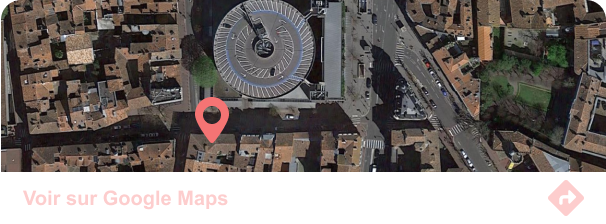
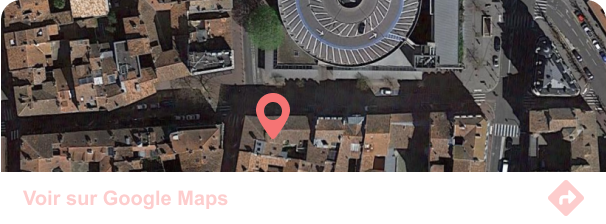
editing footer

diff --git a/pages/agence.html b/pages/agence.html
@@ -105,13 +105,22 @@
             </div>
         
             <div class="centre1">
-              <iframe src="https://www.google.com/maps/embed?pb=!1m18!1m12!1m3!1d2889.448076696676!2d1.441914277059541!3d43.59721127110495!2m3!1f0!2f0!3f0!3m2!1i1024!2i768!4f13.1!3m3!1m2!1s0x12aebc8261d09cf5%3A0x867c59e00fbbbf4!2s42%20Pl.%20des%20Carmes%2C%2031000%20Toulouse!5e0!3m2!1sfr!2sfr!4v1702299517850!5m2!1sfr!2sfr" style="border:0;" allowfullscreen="" loading="lazy" referrerpolicy="no-referrer-when-downgrade"></iframe>
-    
-                <div id="adresse">
-                    <p>EventSphere - Communication 360 dans le domaine de l'événementiel (Projet Etudiant)</p>
-                    <p>42 Place des Carmes, 31000 Toulouse, France </p>
-                </div>
-            </div>
+                <!--<iframe src="https://www.google.com/maps/embed?pb=!1m18!1m12!1m3!1d2889.448076696676!2d1.441914277059541!3d43.59721127110495!2m3!1f0!2f0!3f0!3m2!1i1024!2i768!4f13.1!3m3!1m2!1s0x12aebc8261d09cf5%3A0x867c59e00fbbbf4!2s42%20Pl.%20des%20Carmes%2C%2031000%20Toulouse!5e0!3m2!1sfr!2sfr!4v1702299517850!5m2!1sfr!2sfr" style="border:0;" allowfullscreen="" loading="lazy" referrerpolicy="no-referrer-when-downgrade"></iframe>
+      
+                  <div id="adresse">
+                      <p>EventSphere - Communication 360 dans le domaine de l'événementiel (Projet Etudiant)</p>
+                      <p>42 Place des Carmes, 31000 Toulouse, France </p>
+                  </div>-->
+                  <a target="_blank" href="https://www.google.fr/maps/place/42+Pl.+des+Carmes,+31000+Toulouse/@43.5972152,1.4419143,17z/data=!3m1!4b1!4m6!3m5!1s0x12aebc8261d09cf5:0x867c59e00fbbbf4!8m2!3d43.5972113!4d1.4444892!16s%2Fg%2F11cs6_61m7?entry=ttu"><img src="../assets/img/maps.png" alt="Maps"></a>
+                  <p>
+                      <p>EventSphere - Communication 360 
+                          dans le domaine de l'événementiel 
+                          (Projet Etudiant)
+                      <br>
+                      42 Place des Carmes, 31000 Toulouse, France
+                      </p>
+                  </p>
+              </div>
         
             <div class="droite1">
                 <div class="social" id="instafooter">

diff --git a/pages/contact.html b/pages/contact.html
@@ -105,13 +105,22 @@
             </div>
         
             <div class="centre1">
-              <iframe src="https://www.google.com/maps/embed?pb=!1m18!1m12!1m3!1d2889.448076696676!2d1.441914277059541!3d43.59721127110495!2m3!1f0!2f0!3f0!3m2!1i1024!2i768!4f13.1!3m3!1m2!1s0x12aebc8261d09cf5%3A0x867c59e00fbbbf4!2s42%20Pl.%20des%20Carmes%2C%2031000%20Toulouse!5e0!3m2!1sfr!2sfr!4v1702299517850!5m2!1sfr!2sfr" style="border:0;" allowfullscreen="" loading="lazy" referrerpolicy="no-referrer-when-downgrade"></iframe>
-    
-                <div id="adresse">
-                    <p>EventSphere - Communication 360 dans le domaine de l'événementiel (Projet Etudiant)</p>
-                    <p>42 Place des Carmes, 31000 Toulouse, France </p>
-                </div>
-            </div>
+                <!--<iframe src="https://www.google.com/maps/embed?pb=!1m18!1m12!1m3!1d2889.448076696676!2d1.441914277059541!3d43.59721127110495!2m3!1f0!2f0!3f0!3m2!1i1024!2i768!4f13.1!3m3!1m2!1s0x12aebc8261d09cf5%3A0x867c59e00fbbbf4!2s42%20Pl.%20des%20Carmes%2C%2031000%20Toulouse!5e0!3m2!1sfr!2sfr!4v1702299517850!5m2!1sfr!2sfr" style="border:0;" allowfullscreen="" loading="lazy" referrerpolicy="no-referrer-when-downgrade"></iframe>
+      
+                  <div id="adresse">
+                      <p>EventSphere - Communication 360 dans le domaine de l'événementiel (Projet Etudiant)</p>
+                      <p>42 Place des Carmes, 31000 Toulouse, France </p>
+                  </div>-->
+                  <a target="_blank" href="https://www.google.fr/maps/place/42+Pl.+des+Carmes,+31000+Toulouse/@43.5972152,1.4419143,17z/data=!3m1!4b1!4m6!3m5!1s0x12aebc8261d09cf5:0x867c59e00fbbbf4!8m2!3d43.5972113!4d1.4444892!16s%2Fg%2F11cs6_61m7?entry=ttu"><img src="../assets/img/maps.png" alt="Maps"></a>
+                  <p>
+                    <p>EventSphere - Communication 360 
+                        dans le domaine de l'événementiel 
+                        (Projet Etudiant)
+                    <br>
+                    42 Place des Carmes, 31000 Toulouse, France
+                    </p>
+                </p>
+              </div>
         
             <div class="droite1">
                 <div class="social" id="instafooter">

diff --git a/pages/mentionslegales.html b/pages/mentionslegales.html
@@ -116,13 +116,22 @@
             </div>
         
             <div class="centre1">
-              <iframe src="https://www.google.com/maps/embed?pb=!1m18!1m12!1m3!1d2889.448076696676!2d1.441914277059541!3d43.59721127110495!2m3!1f0!2f0!3f0!3m2!1i1024!2i768!4f13.1!3m3!1m2!1s0x12aebc8261d09cf5%3A0x867c59e00fbbbf4!2s42%20Pl.%20des%20Carmes%2C%2031000%20Toulouse!5e0!3m2!1sfr!2sfr!4v1702299517850!5m2!1sfr!2sfr" style="border:0;" allowfullscreen="" loading="lazy" referrerpolicy="no-referrer-when-downgrade"></iframe>
-    
-                <div id="adresse">
-                    <p>EventSphere - Communication 360 dans le domaine de l'événementiel (Projet Etudiant)</p>
-                    <p>42 Place des Carmes, 31000 Toulouse, France </p>
-                </div>
-            </div>
+                <!--<iframe src="https://www.google.com/maps/embed?pb=!1m18!1m12!1m3!1d2889.448076696676!2d1.441914277059541!3d43.59721127110495!2m3!1f0!2f0!3f0!3m2!1i1024!2i768!4f13.1!3m3!1m2!1s0x12aebc8261d09cf5%3A0x867c59e00fbbbf4!2s42%20Pl.%20des%20Carmes%2C%2031000%20Toulouse!5e0!3m2!1sfr!2sfr!4v1702299517850!5m2!1sfr!2sfr" style="border:0;" allowfullscreen="" loading="lazy" referrerpolicy="no-referrer-when-downgrade"></iframe>
+      
+                  <div id="adresse">
+                      <p>EventSphere - Communication 360 dans le domaine de l'événementiel (Projet Etudiant)</p>
+                      <p>42 Place des Carmes, 31000 Toulouse, France </p>
+                  </div>-->
+                  <a target="_blank" href="https://www.google.fr/maps/place/42+Pl.+des+Carmes,+31000+Toulouse/@43.5972152,1.4419143,17z/data=!3m1!4b1!4m6!3m5!1s0x12aebc8261d09cf5:0x867c59e00fbbbf4!8m2!3d43.5972113!4d1.4444892!16s%2Fg%2F11cs6_61m7?entry=ttu"><img src="../assets/img/maps.png" alt="Maps"></a>
+                  <p>
+                    <p>EventSphere - Communication 360 
+                        dans le domaine de l'événementiel 
+                        (Projet Etudiant)
+                    <br>
+                    42 Place des Carmes, 31000 Toulouse, France
+                    </p>
+                </p>
+              </div>
         
             <div class="droite1">
                 <div class="social" id="instafooter">

diff --git a/pages/realisations.html b/pages/realisations.html
@@ -105,13 +105,22 @@
             </div>
         
             <div class="centre1">
-              <iframe src="https://www.google.com/maps/embed?pb=!1m18!1m12!1m3!1d2889.448076696676!2d1.441914277059541!3d43.59721127110495!2m3!1f0!2f0!3f0!3m2!1i1024!2i768!4f13.1!3m3!1m2!1s0x12aebc8261d09cf5%3A0x867c59e00fbbbf4!2s42%20Pl.%20des%20Carmes%2C%2031000%20Toulouse!5e0!3m2!1sfr!2sfr!4v1702299517850!5m2!1sfr!2sfr" style="border:0;" allowfullscreen="" loading="lazy" referrerpolicy="no-referrer-when-downgrade"></iframe>
-    
-                <div id="adresse">
-                    <p>EventSphere - Communication 360 dans le domaine de l'événementiel (Projet Etudiant)</p>
-                    <p>42 Place des Carmes, 31000 Toulouse, France </p>
-                </div>
-            </div>
+                <!--<iframe src="https://www.google.com/maps/embed?pb=!1m18!1m12!1m3!1d2889.448076696676!2d1.441914277059541!3d43.59721127110495!2m3!1f0!2f0!3f0!3m2!1i1024!2i768!4f13.1!3m3!1m2!1s0x12aebc8261d09cf5%3A0x867c59e00fbbbf4!2s42%20Pl.%20des%20Carmes%2C%2031000%20Toulouse!5e0!3m2!1sfr!2sfr!4v1702299517850!5m2!1sfr!2sfr" style="border:0;" allowfullscreen="" loading="lazy" referrerpolicy="no-referrer-when-downgrade"></iframe>
+      
+                  <div id="adresse">
+                      <p>EventSphere - Communication 360 dans le domaine de l'événementiel (Projet Etudiant)</p>
+                      <p>42 Place des Carmes, 31000 Toulouse, France </p>
+                  </div>-->
+                  <a target="_blank" href="https://www.google.fr/maps/place/42+Pl.+des+Carmes,+31000+Toulouse/@43.5972152,1.4419143,17z/data=!3m1!4b1!4m6!3m5!1s0x12aebc8261d09cf5:0x867c59e00fbbbf4!8m2!3d43.5972113!4d1.4444892!16s%2Fg%2F11cs6_61m7?entry=ttu"><img src="../assets/img/maps.png" alt="Maps"></a>
+                  <p>
+                    <p>EventSphere - Communication 360 
+                        dans le domaine de l'événementiel 
+                        (Projet Etudiant)
+                    <br>
+                    42 Place des Carmes, 31000 Toulouse, France
+                    </p>
+                </p>
+              </div>
         
             <div class="droite1">
                 <div class="social" id="instafooter">

diff --git a/pages/services.html b/pages/services.html
@@ -111,7 +111,7 @@
                     <p>EventSphere - Communication 360 dans le domaine de l'événementiel (Projet Etudiant)</p>
                     <p>42 Place des Carmes, 31000 Toulouse, France </p>
                 </div>-->
-                <a href="#"><img src="../assets/img/maps.png" alt="Maps"></a>
+                <a target="_blank" href="https://www.google.fr/maps/place/42+Pl.+des+Carmes,+31000+Toulouse/@43.5972152,1.4419143,17z/data=!3m1!4b1!4m6!3m5!1s0x12aebc8261d09cf5:0x867c59e00fbbbf4!8m2!3d43.5972113!4d1.4444892!16s%2Fg%2F11cs6_61m7?entry=ttu"><img src="../assets/img/maps.png" alt="Maps"></a>
                 <p>
                     <p>EventSphere - Communication 360 
                         dans le domaine de l'événementiel 
